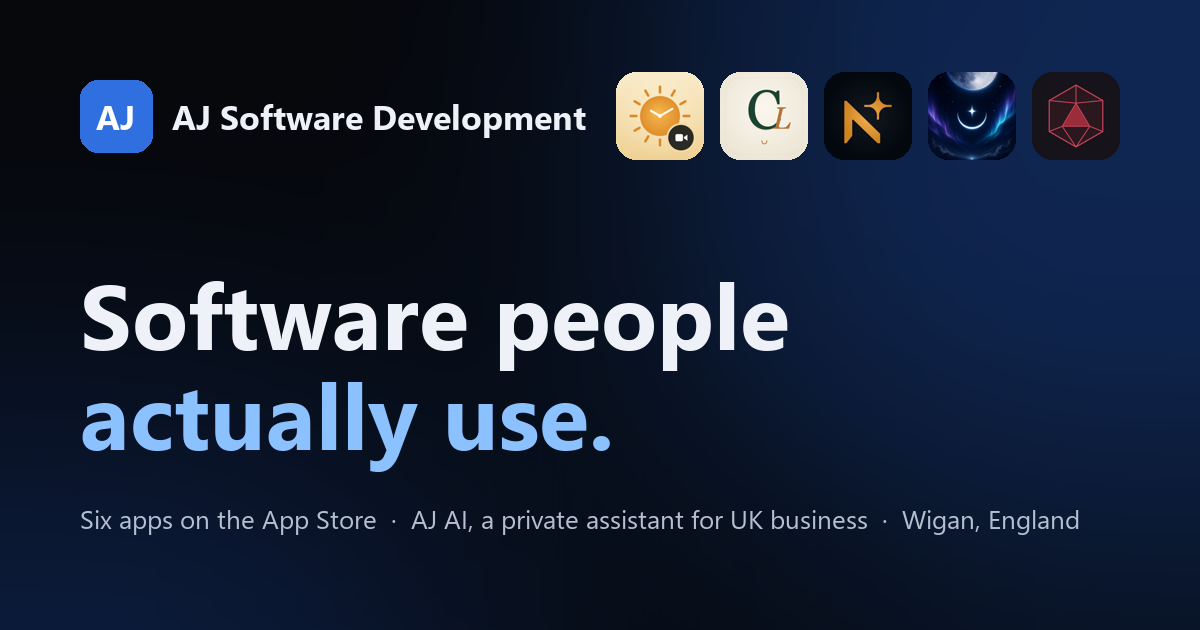
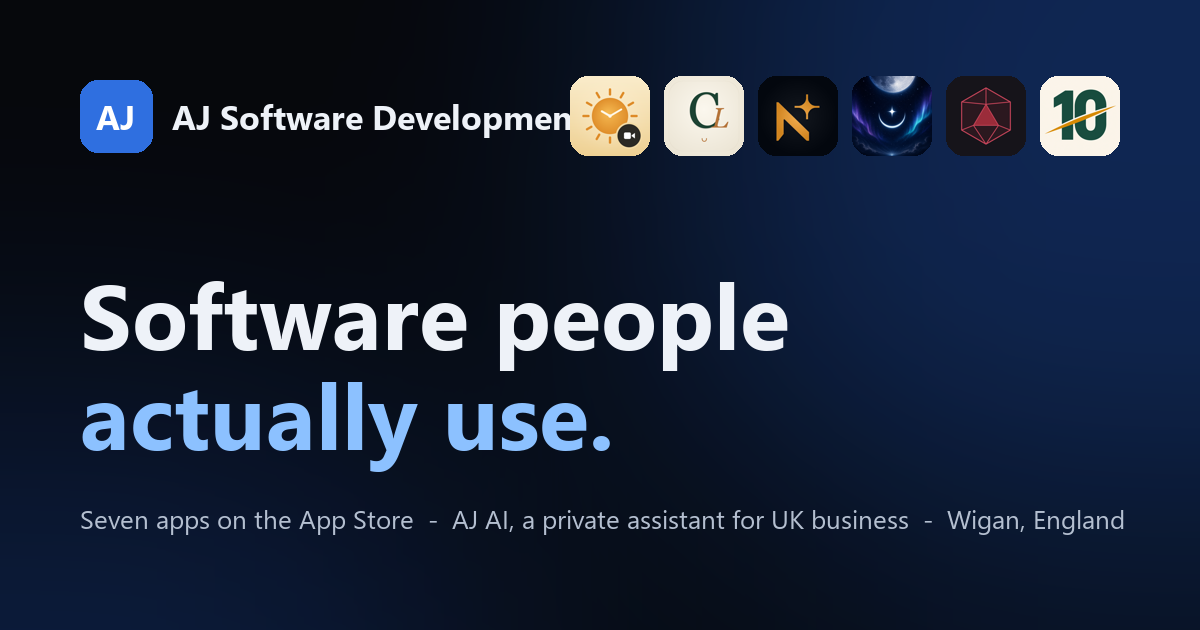
Add CostCutTen and AJ Racing Tips; seven apps live

Changed region(s): [[0.4625, 0.0905, 0.9558, 0.2714], [0.0617, 0.8143, 0.9558, 0.8444]]

diff --git a/index.html b/index.html
@@ -8,24 +8,24 @@
      un-verifies the domain. -->
 <meta name="google-site-verification" content="Go9ZNC_MjxvmaUTgfb4iK0RJtg9QLhrOP5MjT_R4Gfk">
 <title>AJ Software Development — Apps people use, and a private AI for UK business</title>
-<meta name="description" content="AJ Software Development is a UK software company. Six apps live on the App Store — Clarity, TextProof, North Star Bible, Lunara, CastLog and 5e Character Sheet — and AJ AI, a permission-aware business assistant that keeps customer data in the UK. 25 years of enterprise software behind it.">
+<meta name="description" content="AJ Software Development is a UK software company. Seven apps live on the App Store — Clarity, TextProof, North Star Bible, Lunara, CastLog, 5e Character Sheet and CostCutTen — plus AJ Racing Tips on the web, and AJ AI, a permission-aware business assistant that keeps customer data in the UK. 25 years of enterprise software behind it.">
 <link rel="canonical" href="https://ajsoftwaredev.org/">
 <meta property="og:type" content="website">
 <meta property="og:url" content="https://ajsoftwaredev.org/">
 <meta property="og:site_name" content="AJ Software Development">
 <meta property="og:title" content="AJ Software Development — software people actually use">
-<meta property="og:description" content="Six apps live on the App Store, a private AI for UK businesses, and 25 years of enterprise software behind them. Wigan, England.">
+<meta property="og:description" content="Seven apps live on the App Store, a private AI for UK businesses, and 25 years of enterprise software behind them. Wigan, England.">
 <meta property="og:image" content="https://ajsoftwaredev.org/assets/og.png">
 <meta name="twitter:card" content="summary_large_image">
 <meta name="twitter:title" content="AJ Software Development — software people actually use">
-<meta name="twitter:description" content="Six apps live on the App Store, a private AI for UK businesses, and 25 years of enterprise software behind them.">
+<meta name="twitter:description" content="Seven apps live on the App Store, a private AI for UK businesses, and 25 years of enterprise software behind them.">
 <meta name="twitter:image" content="https://ajsoftwaredev.org/assets/og.png">
 <meta name="theme-color" content="#06080c">
 <link rel="icon" href="assets/favicon.svg" type="image/svg+xml">
 <link rel="preconnect" href="https://fonts.googleapis.com">
 <link rel="preconnect" href="https://fonts.gstatic.com" crossorigin>
 <link href="https://fonts.googleapis.com/css2?family=Bricolage+Grotesque:opsz,wdth,wght@12..96,75..100,300..800&family=Inter:wght@400;500;600&family=JetBrains+Mono:wght@400;500&display=swap" rel="stylesheet">
-<link rel="stylesheet" href="site.css?v=20261016e">
+<link rel="stylesheet" href="site.css?v=20261016f">
 <script type="application/ld+json">
 {
   "@context": "https://schema.org",
@@ -45,7 +45,9 @@
         "https://northstarbible.com/",
         "https://lunara-sleep-ai.com/",
         "https://castlog.co.uk/",
-        "https://5echaractersheet.com/"
+        "https://5echaractersheet.com/",
+        "https://costcutten.com/",
+        "https://ajracingtips.com/"
       ]
     },
     {
@@ -63,7 +65,9 @@
     { "@type": "SoftwareApplication", "name": "North Star Bible", "operatingSystem": "iOS, Android", "applicationCategory": "LifestyleApplication", "url": "https://northstarbible.com/", "author": { "@id": "https://ajsoftwaredev.org/#organization" } },
     { "@type": "SoftwareApplication", "name": "Lunara", "operatingSystem": "iOS", "applicationCategory": "HealthApplication", "url": "https://lunara-sleep-ai.com/", "author": { "@id": "https://ajsoftwaredev.org/#organization" } },
     { "@type": "SoftwareApplication", "name": "CastLog", "operatingSystem": "iOS", "applicationCategory": "SportsApplication", "url": "https://castlog.co.uk/", "author": { "@id": "https://ajsoftwaredev.org/#organization" } },
-    { "@type": "SoftwareApplication", "name": "5e Character Sheet", "operatingSystem": "iOS", "applicationCategory": "GameApplication", "url": "https://5echaractersheet.com/", "author": { "@id": "https://ajsoftwaredev.org/#organization" } }
+    { "@type": "SoftwareApplication", "name": "5e Character Sheet", "operatingSystem": "iOS", "applicationCategory": "GameApplication", "url": "https://5echaractersheet.com/", "author": { "@id": "https://ajsoftwaredev.org/#organization" } },
+    { "@type": "SoftwareApplication", "name": "CostCutTen", "operatingSystem": "iOS", "applicationCategory": "ShoppingApplication", "url": "https://costcutten.com/", "author": { "@id": "https://ajsoftwaredev.org/#organization" } },
+    { "@type": "WebApplication", "name": "AJ Racing Tips", "applicationCategory": "SportsApplication", "url": "https://ajracingtips.com/", "author": { "@id": "https://ajsoftwaredev.org/#organization" } }
   ]
 }
 </script>
@@ -111,13 +115,13 @@
     <div class="hero-copy">
       <p class="kicker"><span class="dot"></span>AJ Software Development Ltd · Apps &amp; business AI · Wigan, England</p>
       <h1>Software people <em>actually</em> use.</h1>
-      <p class="sell">Six apps live on the App Store, built one at a time and used every day by families, anglers, players and people who just needed a record of what was said. Now, the same care turned toward business: a private AI that keeps your data in the UK.</p>
+      <p class="sell">Seven apps live on the App Store, built one at a time and used every day by families, anglers, players, Costco shoppers and people who just needed a record of what was said. Now, the same care turned toward business: a private AI that keeps your data in the UK.</p>
       <div class="hero-actions">
         <a class="btn btn-p" href="#products">See the apps <span aria-hidden="true">↓</span></a>
         <a class="btn btn-s" href="#ajai">AJ AI for business</a>
       </div>
       <dl class="hero-facts">
-        <div><dt>Apps live</dt><dd><span data-count="6">6</span></dd></div>
+        <div><dt>Apps live</dt><dd><span data-count="7">7</span></dd></div>
         <div><dt>Years in software</dt><dd><span data-count="25">25</span>+</dd></div>
         <div><dt>Data residency</dt><dd>UK</dd></div>
         <div><dt>Subscriptions forced</dt><dd>0</dd></div>
@@ -143,8 +147,8 @@
   <p class="hud" aria-hidden="true"><span>build 2026.10.16</span><span>0 trackers</span><span>0 cookies</span><span>0 frameworks</span><span>hand-written html · css · js</span></p>
   <div class="ticker" aria-hidden="true">
     <div class="ticker-track">
-      <span>Clarity · auto-answer video calls for dementia care</span><span>TextProof · iMessage &amp; WhatsApp to PDF, on-device</span><span>North Star Bible · iOS &amp; Android</span><span>Lunara · CBT-I sleep coaching</span><span>CastLog · AI fish identification</span><span>5e Character Sheet · fully offline</span><span>AJ AI · in pilot</span>
-      <span>Clarity · auto-answer video calls for dementia care</span><span>TextProof · iMessage &amp; WhatsApp to PDF, on-device</span><span>North Star Bible · iOS &amp; Android</span><span>Lunara · CBT-I sleep coaching</span><span>CastLog · AI fish identification</span><span>5e Character Sheet · fully offline</span><span>AJ AI · in pilot</span>
+      <span>Clarity · auto-answer video calls for dementia care</span><span>TextProof · iMessage &amp; WhatsApp to PDF, on-device</span><span>North Star Bible · iOS &amp; Android</span><span>Lunara · CBT-I sleep coaching</span><span>CastLog · AI fish identification</span><span>5e Character Sheet · fully offline</span><span>CostCutTen · the UK Costco price checker</span><span>AJ Racing Tips · ML on today's card</span><span>AJ AI · in pilot</span>
+      <span>Clarity · auto-answer video calls for dementia care</span><span>TextProof · iMessage &amp; WhatsApp to PDF, on-device</span><span>North Star Bible · iOS &amp; Android</span><span>Lunara · CBT-I sleep coaching</span><span>CastLog · AI fish identification</span><span>5e Character Sheet · fully offline</span><span>CostCutTen · the UK Costco price checker</span><span>AJ Racing Tips · ML on today's card</span><span>AJ AI · in pilot</span>
     </div>
   </div>
 </section>
@@ -155,7 +159,7 @@
     <header class="sec-head">
       <p class="kicker">01 — The apps</p>
       <h2>Each one solves a problem somebody actually had.</h2>
-      <p class="sec-sub">No feature lists for their own sake. A clock for a parent who forgets the day. A fair record of a text conversation. A fishing log that knows the fish. Every app has its own site, its own design and its own reason to exist.</p>
+      <p class="sec-sub">No feature lists for their own sake. A clock for a parent who forgets the day. A fair record of a text conversation. A fishing log that knows the fish. A Costco trip that starts with the ten deals worth going for. Every app has its own site, its own design and its own reason to exist.</p>
     </header>
   </div>
 
@@ -331,6 +335,58 @@
       </div>
     </div>
   </article>
+
+  <!-- CostCutTen -->
+  <article class="product" id="costcutten" data-glow="#1f6b4f" data-glow2="#e0a43a">
+    <div class="wrap product-grid">
+      <div class="product-copy">
+        <div class="product-id"><img src="assets/apps/costcutten-icon.png" width="56" height="56" alt=""><div><h3>CostCutTen</h3><p class="product-cat">Shopping · iPhone · Free to browse · No account</p></div></div>
+        <p class="product-lead">Know what's <strong>worth the trolley.</strong></p>
+        <p>The UK Costco price checker. Every day CostCutTen ranks the strongest reductions across the whole Costco UK catalogue into one Top 10, lets you check any of 9,000+ catalogue prices before it reaches the trolley, and shows the published pump prices at your warehouse. Every price says where it came from and when it was checked.</p>
+        <ul class="proof">
+          <li>Today's Top 10, overall and by department</li>
+          <li>9,000+ catalogue products checked daily</li>
+          <li>All 29 UK warehouses, 22 with pump prices</li>
+        </ul>
+        <div class="product-actions">
+          <a class="btn btn-store" href="https://apps.apple.com/gb/app/id6797034122" target="_blank" rel="noopener"><svg viewBox="0 0 24 24" aria-hidden="true"><path fill="currentColor" d="M16.4 12.6c0-2.4 2-3.6 2.1-3.7-1.2-1.7-3-1.9-3.6-2-1.5-.2-3 .9-3.8.9-.8 0-2-.9-3.3-.9-1.7 0-3.3 1-4.1 2.5-1.8 3.1-.5 7.6 1.3 10.1.9 1.2 1.9 2.6 3.2 2.5 1.3-.1 1.8-.8 3.3-.8s2 .8 3.3.8c1.4 0 2.3-1.2 3.1-2.5 1-1.4 1.4-2.8 1.4-2.9-.1 0-2.9-1.1-2.9-4Zm-2.5-7.4c.7-.8 1.2-2 1-3.2-1 .1-2.3.7-3 1.6-.7.7-1.2 1.9-1.1 3 1.2.1 2.3-.6 3.1-1.4Z"/></svg><span><small>Download on the</small>App Store</span></a>
+          <a class="btn btn-s" href="https://costcutten.com/" target="_blank" rel="noopener">costcutten.com <span aria-hidden="true">↗</span></a>
+        </div>
+      </div>
+      <div class="product-visual">
+        <div class="shots shots-pair">
+          <figure class="dev tilt" data-depth="14"><div class="dev-frame"><img src="assets/apps/costcutten-top10.webp" width="808" height="1400" alt="CostCutTen: Today's UK Top 10 Costco reductions, led by £90 off a Ring camera three-pack" loading="lazy"></div></figure>
+          <figure class="dev tilt dev-back" data-depth="26"><div class="dev-frame"><img src="assets/apps/costcutten-fuel.webp" width="808" height="1400" alt="CostCutTen: Costco's published petrol and diesel prices at the Haydock warehouse" loading="lazy"></div></figure>
+        </div>
+      </div>
+    </div>
+  </article>
+
+  <!-- AJ Racing Tips -->
+  <article class="product product-alt" id="ajracing" data-glow="#059669" data-glow2="#34d399">
+    <div class="wrap product-grid">
+      <div class="product-copy">
+        <div class="product-id"><span class="icon-aj" aria-hidden="true">AJ</span><div><h3>AJ Racing Tips</h3><p class="product-cat">Racing · Web app · Free while results are verified</p></div></div>
+        <p class="product-lead">Machine learning, <strong>on today's card.</strong></p>
+        <p>A model trained on more than ten thousand UK races scores every runner on twenty-plus signals: recent form, distance and going, course record, market movement, trainer and jockey strike rates. Each day it names a Best Pick and a Value Bet, and every result is logged and published, wins and losses alike.</p>
+        <ul class="proof">
+          <li>10k+ UK races analysed, model updated daily</li>
+          <li>Best Pick and Value Bet, with the reasoning</li>
+          <li>Performance tracked in the open</li>
+        </ul>
+        <div class="product-actions">
+          <a class="btn btn-p" href="https://ajracingtips.com/" target="_blank" rel="noopener">Open the web app <span aria-hidden="true">↗</span></a>
+          <a class="btn btn-s" href="https://ajracingtips.com/how-it-works.html" target="_blank" rel="noopener">How the model works</a>
+        </div>
+        <p class="small product-note">18+. Information, not advice. Please gamble responsibly.</p>
+      </div>
+      <div class="product-visual">
+        <div class="shots shots-single">
+          <figure class="dev tilt" data-depth="16"><div class="dev-frame"><img src="assets/apps/ajracing-how.webp" width="430" height="848" alt="AJ Racing Tips: AI-powered race analysis, 10k+ UK races analysed, 20+ signals per horse, daily model updates" loading="lazy"></div></figure>
+        </div>
+      </div>
+    </div>
+  </article>
 </section>
 
 <!-- ============================================================ AJ AI -->
@@ -461,7 +517,7 @@
       <article class="svc">
         <p class="svc-n">05</p>
         <h3>iPhone &amp; Android apps</h3>
-        <p>Six of our own shipped to the App Store. We know the review process, the privacy labels, the subscription rules and what people actually keep on their phones.</p>
+        <p>Seven of our own shipped to the App Store. We know the review process, the privacy labels, the subscription rules and what people actually keep on their phones.</p>
       </article>
     </div>
   </div>
@@ -483,7 +539,7 @@
       <li><span class="tl-years">10 yrs</span><div><b>Alliance &amp; Leicester · Santander</b><p>Financial technology, enterprise software and banking compliance.</p></div></li>
       <li><span class="tl-years">7 yrs</span><div><b>V1 · EDM &amp; Sage integration</b><p>Document management, EDM systems and Sage X3 integration as a contractor.</p></div></li>
       <li><span class="tl-years">9 yrs</span><div><b>Datel · Sage X3 specialist</b><p>Support, installs, managed services, bespoke development and full ERP implementations.</p></div></li>
-      <li class="tl-now"><span class="tl-years">Today</span><div><b>AJ Software Development Ltd</b><p>Six apps on the App Store. AJ AI in pilot. Wigan, England.</p></div></li>
+      <li class="tl-now"><span class="tl-years">Today</span><div><b>AJ Software Development Ltd</b><p>Seven apps on the App Store, one on the web. AJ AI in pilot. Wigan, England.</p></div></li>
     </ol>
   </div>
 </section>
@@ -532,7 +588,7 @@
       <p class="foot-tag">Software people actually use.</p>
     </div>
     <nav aria-label="Apps"><p class="foot-h">Apps</p>
-      <a href="https://claritycallsapp.com/">Clarity</a><a href="https://textproof.net/">TextProof</a><a href="https://northstarbible.com/">North Star Bible</a><a href="https://lunara-sleep-ai.com/">Lunara</a><a href="https://castlog.co.uk/">CastLog</a><a href="https://5echaractersheet.com/">5e Character Sheet</a>
+      <a href="https://claritycallsapp.com/">Clarity</a><a href="https://textproof.net/">TextProof</a><a href="https://northstarbible.com/">North Star Bible</a><a href="https://lunara-sleep-ai.com/">Lunara</a><a href="https://castlog.co.uk/">CastLog</a><a href="https://5echaractersheet.com/">5e Character Sheet</a><a href="https://costcutten.com/">CostCutTen</a><a href="https://ajracingtips.com/">AJ Racing Tips</a>
     </nav>
     <nav aria-label="Company"><p class="foot-h">Company</p>
       <a href="#ajai">AJ AI</a><a href="#business">For business</a><a href="#about">About</a><a href="#contact">Contact</a><a href="/clarity/privacy.html">Clarity privacy</a><a href="/clarity/support.html">Clarity support</a>
@@ -544,6 +600,6 @@
   </div>
 </footer>
 
-<script src="site.js?v=20261016e" defer></script>
+<script src="site.js?v=20261016f" defer></script>
 </body>
 </html>

diff --git a/site.css b/site.css
@@ -337,3 +337,8 @@ body.booting .nav, body.booting .hero-copy, body.booting .stage { visibility: hi
 .hero.in .hud { opacity: .85; }
 @media (max-width: 1000px) { .hud { display: none; } }
 @media (prefers-reduced-motion: reduce) { #boot { display: none !important; } body.booting { overflow: auto; } body.booting .nav, body.booting .hero-copy, body.booting .stage { visibility: visible; } }
+
+/* Single-device stage and the AJ Racing wordmark tile */
+.shots-single .dev { left: 50%; top: 0; transform: translateX(-50%) rotate(var(--rz)) translate3d(var(--px, 0), var(--py, 0), 0); --rz: -4deg; width: 54%; max-width: 290px; }
+.icon-aj { width: 56px; height: 56px; border-radius: 14px; background: linear-gradient(135deg, #059669, #047857); color: #fff; display: grid; place-items: center; font-family: var(--display); font-weight: 800; font-size: 1.35rem; letter-spacing: -.05em; box-shadow: 0 8px 30px #0008; flex: none; }
+.product-note { margin-top: 1rem; }

diff --git a/site.js b/site.js
@@ -115,7 +115,7 @@
     const line = $('.boot-line', boot), log = $('.boot-log', boot);
     const lines = [
       ['$ ajsoftware --boot', ''],
-      ['apps.live', '6', 'ok'],
+      ['apps.live', '7', 'ok'],
       ['data.residency', 'uk-south', 'ok'],
       ['trackers', '0', 'ok'],
       ['render', 'hand-written html · css · js', 'ok'],
